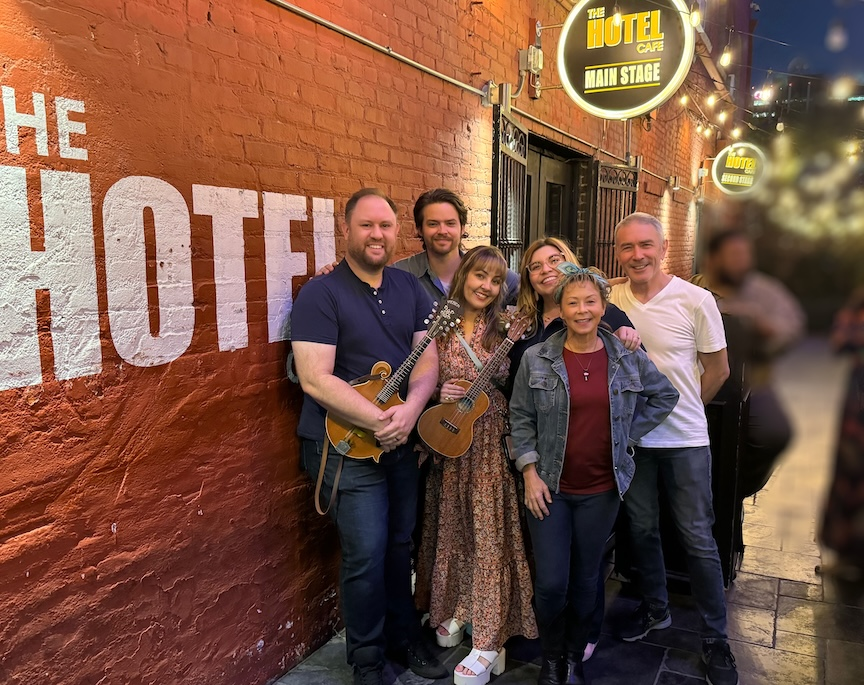
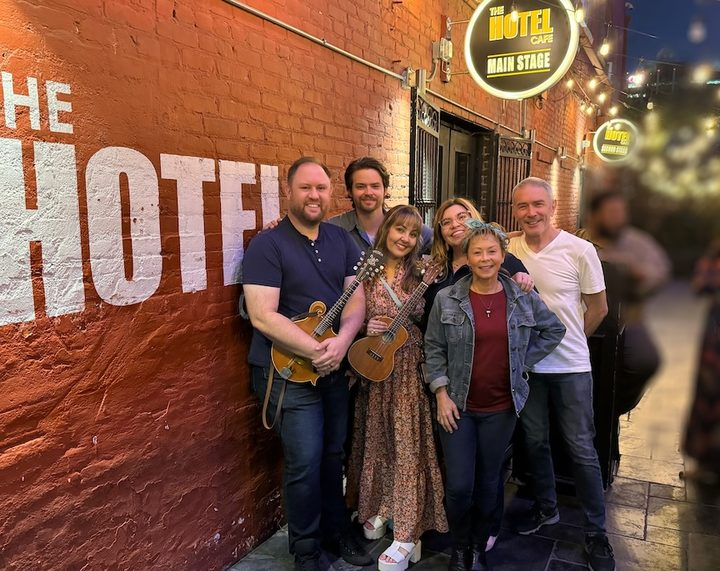
Fix Jake caption and shrink large images
- Characters: the Taz-Mania Jake clip was captioned "TAIME / Guild Wars
  II" (copied from another card); it now reads JAKE / "Taz-Mania" (TV).
- Resize 16 images to about twice their largest displayed width and
  recompress. Opaque PNGs (no transparency) become JPEGs. images/ goes
  from 15 MB to 2.5 MB; pages updated to the new names and sizes.

Claude-Session: https://claude.ai/code/session_01AyYw8QGHAJn7GwtTYjvwg3

diff --git a/voiceover-help/index.html b/voiceover-help/index.html
@@ -57,7 +57,7 @@
 
     <section class="feature book">
       <div class="media">
-        <a href="https://www.amazon.com/Voice-Over-101-Succeed-Voice-Second/dp/B09C3JTRR3" target="_blank" rel="noopener"><img src="/images/voiceover-help/voice-over-101.png" alt="Voice-Over 101 book cover" width="1600" height="2560" class="w-80"></a>
+        <a href="https://www.amazon.com/Voice-Over-101-Succeed-Voice-Second/dp/B09C3JTRR3" target="_blank" rel="noopener"><img src="/images/voiceover-help/voice-over-101.jpg" alt="Voice-Over 101 book cover" width="940" height="1504" class="w-80"></a>
       </div>
       <div>
         <h2 class="book-title">Voice-Over 101</h2>
@@ -84,39 +84,39 @@
     <section class="grid cols-3 products">
       <div class="item">
         <p>Rode Complete Studio Kit with NT1 microphone and AI-1 Audio Interface</p>
-        <div><a href="https://www.sweetwater.com/store/detail/NT1AiBun--rode-complete-studio-kit-with-nt1-microphone-and-ai-1-audio-interface?irclickid=0xdUHnyPoxyKWkh066xZhy2jUkCyL23Brz2Hwo0&amp;irgwc=1&amp;utm_source=Impact&amp;utm_medium=Very%20Derryberry%2C%20Inc&amp;utm_campaign=Online%20Tracking%20Link" target="_blank" rel="noopener"><img src="/images/voiceover-help/rode-studio-kit.png" alt="Rode Complete Studio Kit" width="866" height="1036" class="w-80"></a></div>
+        <div><a href="https://www.sweetwater.com/store/detail/NT1AiBun--rode-complete-studio-kit-with-nt1-microphone-and-ai-1-audio-interface?irclickid=0xdUHnyPoxyKWkh066xZhy2jUkCyL23Brz2Hwo0&amp;irgwc=1&amp;utm_source=Impact&amp;utm_medium=Very%20Derryberry%2C%20Inc&amp;utm_campaign=Online%20Tracking%20Link" target="_blank" rel="noopener"><img src="/images/voiceover-help/rode-studio-kit.jpg" alt="Rode Complete Studio Kit" width="720" height="861" class="w-80"></a></div>
       </div>
       <div class="item">
         <p>Rode AI-1 USB Audio Interface</p>
-        <div><a href="https://www.sweetwater.com/store/detail/AI-1--rode-ai-1-audio-interface?irclickid=0xdUHnyPoxyKWkh066xZhy2jUkCyLw09rz2Hwo0&amp;irgwc=1&amp;utm_source=Impact&amp;utm_medium=Very%20Derryberry%2C%20Inc&amp;utm_campaign=Online%20Tracking%20Link" target="_blank" rel="noopener"><img src="/images/voiceover-help/rode-ai-1.png" alt="Rode AI-1 USB Audio Interface" width="1580" height="554"></a></div>
+        <div><a href="https://www.sweetwater.com/store/detail/AI-1--rode-ai-1-audio-interface?irclickid=0xdUHnyPoxyKWkh066xZhy2jUkCyLw09rz2Hwo0&amp;irgwc=1&amp;utm_source=Impact&amp;utm_medium=Very%20Derryberry%2C%20Inc&amp;utm_campaign=Online%20Tracking%20Link" target="_blank" rel="noopener"><img src="/images/voiceover-help/rode-ai-1.jpg" alt="Rode AI-1 USB Audio Interface" width="720" height="252"></a></div>
       </div>
       <div class="item">
         <p>Aspen Pittman Designs PFM+ Magnetic pop filter</p>
-        <div><a href="https://www.sweetwater.com/store/detail/PFMplus--aspen-pittman-designs-pfm-magnetic-pop-filter-plus-gooseneck-and-stand-clamp?irclickid=0xdUHnyPoxyKWkh066xZhy2jUkCyLQUxrz2Hwo0&amp;irgwc=1&amp;utm_source=Impact&amp;utm_medium=Very%20Derryberry%2C%20Inc&amp;utm_campaign=Online%20Tracking%20Link" target="_blank" rel="noopener"><img src="/images/voiceover-help/pop-filter.png" alt="Aspen Pittman Designs PFM+ pop filter" width="616" height="1014" class="w-40"></a></div>
+        <div><a href="https://www.sweetwater.com/store/detail/PFMplus--aspen-pittman-designs-pfm-magnetic-pop-filter-plus-gooseneck-and-stand-clamp?irclickid=0xdUHnyPoxyKWkh066xZhy2jUkCyLQUxrz2Hwo0&amp;irgwc=1&amp;utm_source=Impact&amp;utm_medium=Very%20Derryberry%2C%20Inc&amp;utm_campaign=Online%20Tracking%20Link" target="_blank" rel="noopener"><img src="/images/voiceover-help/pop-filter.jpg" alt="Aspen Pittman Designs PFM+ pop filter" width="360" height="593" class="w-40"></a></div>
       </div>
       <div class="item">
         <p>Mojave Audio MA-301fet<br>large diaphragm condenser microphone</p>
-        <div><a href="https://www.sweetwater.com/store/detail/MA301FETVG--mojave-audio-ma-301fet-large-diaphragm-condenser-microphone-vintage-gray" target="_blank" rel="noopener"><img src="/images/voiceover-help/mojave-ma-301fet.png" alt="Mojave Audio MA-301fet microphone" width="278" height="864" class="w-40"></a></div>
+        <div><a href="https://www.sweetwater.com/store/detail/MA301FETVG--mojave-audio-ma-301fet-large-diaphragm-condenser-microphone-vintage-gray" target="_blank" rel="noopener"><img src="/images/voiceover-help/mojave-ma-301fet.jpg" alt="Mojave Audio MA-301fet microphone" width="278" height="864" class="w-40"></a></div>
       </div>
       <div class="item">
         <p>Mojave Audio MA-50<br>large diaphragm condenser microphone</p>
-        <div><a href="https://www.sweetwater.com/store/detail/MA50Blk--mojave-audio-ma-50-large-diaphragm-condenser-microphone-black?irclickid=0xdUHnyPoxyKWkh066xZhy2jUkCyL33Jrz2Hwo0&amp;irgwc=1&amp;utm_source=Impact&amp;utm_medium=Very%20Derryberry%2C%20Inc&amp;utm_campaign=Online%20Tracking%20Link" target="_blank" rel="noopener"><img src="/images/voiceover-help/mojave-ma-50.png" alt="Mojave Audio MA-50 microphone" width="1658" height="1042" class="w-80"></a></div>
+        <div><a href="https://www.sweetwater.com/store/detail/MA50Blk--mojave-audio-ma-50-large-diaphragm-condenser-microphone-black?irclickid=0xdUHnyPoxyKWkh066xZhy2jUkCyL33Jrz2Hwo0&amp;irgwc=1&amp;utm_source=Impact&amp;utm_medium=Very%20Derryberry%2C%20Inc&amp;utm_campaign=Online%20Tracking%20Link" target="_blank" rel="noopener"><img src="/images/voiceover-help/mojave-ma-50.jpg" alt="Mojave Audio MA-50 microphone" width="720" height="452" class="w-80"></a></div>
       </div>
       <div class="item">
         <p>Sennheiser HD 280 Pro<br>Closed-back studio and live monitoring headphones</p>
-        <div><a href="https://www.sweetwater.com/store/detail/HD280Pro--sennheiser-hd-280-pro-closed-back-studio-and-live-monitoring-headphones?irclickid=0xdUHnyPoxyKWkh066xZhy2jUkCyLyUxrz2Hwo0&amp;irgwc=1&amp;utm_source=Impact&amp;utm_medium=Very%20Derryberry%2C%20Inc&amp;utm_campaign=Online%20Tracking%20Link" target="_blank" rel="noopener"><img src="/images/voiceover-help/sennheiser-hd-280.png" alt="Sennheiser HD 280 Pro headphones" width="874" height="1018" class="w-70"></a></div>
+        <div><a href="https://www.sweetwater.com/store/detail/HD280Pro--sennheiser-hd-280-pro-closed-back-studio-and-live-monitoring-headphones?irclickid=0xdUHnyPoxyKWkh066xZhy2jUkCyLyUxrz2Hwo0&amp;irgwc=1&amp;utm_source=Impact&amp;utm_medium=Very%20Derryberry%2C%20Inc&amp;utm_campaign=Online%20Tracking%20Link" target="_blank" rel="noopener"><img src="/images/voiceover-help/sennheiser-hd-280.jpg" alt="Sennheiser HD 280 Pro headphones" width="630" height="734" class="w-70"></a></div>
       </div>
       <div class="item">
         <p>Tribooth portable VO studio</p>
-        <div><a href="https://tribooth.com/products/the-tri-booth?variant=34610675581081" target="_blank" rel="noopener"><img src="/images/voiceover-help/tribooth.png" alt="Tribooth portable VO studio" width="776" height="1372" class="w-60"></a></div>
+        <div><a href="https://tribooth.com/products/the-tri-booth?variant=34610675581081" target="_blank" rel="noopener"><img src="/images/voiceover-help/tribooth.jpg" alt="Tribooth portable VO studio" width="540" height="955" class="w-60"></a></div>
       </div>
       <div class="item">
         <p>Universal Audio Apollo Twin X DUO<br>Thunderbolt Audio Interface</p>
-        <div><a href="https://www.sweetwater.com/store/detail/ApolloTXDHE--universal-audio-apollo-twin-by-duo-heritage-edition-10x6-thunderbolt-audio-interface-with-uad-dsp?irclickid=0xdUHnyPoxyKWkh066xZhy2jUkCyLRVhrz2Hwo0&amp;irgwc=1&amp;utm_source=Impact&amp;utm_medium=Very%20Derryberry%2C%20Inc&amp;utm_campaign=Online%20Tracking%20Link" target="_blank" rel="noopener"><img src="/images/voiceover-help/apollo-twin-x.png" alt="Universal Audio Apollo Twin X DUO" width="1378" height="1026" class="w-60"></a></div>
+        <div><a href="https://www.sweetwater.com/store/detail/ApolloTXDHE--universal-audio-apollo-twin-by-duo-heritage-edition-10x6-thunderbolt-audio-interface-with-uad-dsp?irclickid=0xdUHnyPoxyKWkh066xZhy2jUkCyLRVhrz2Hwo0&amp;irgwc=1&amp;utm_source=Impact&amp;utm_medium=Very%20Derryberry%2C%20Inc&amp;utm_campaign=Online%20Tracking%20Link" target="_blank" rel="noopener"><img src="/images/voiceover-help/apollo-twin-x.jpg" alt="Universal Audio Apollo Twin X DUO" width="540" height="402" class="w-60"></a></div>
       </div>
       <div class="item">
         <p>Centrance MicPort Pro<br>great little audio interface - battery or USB-C power, limiter, phantom power</p>
-        <div><a href="https://centrance.com/micportpro/" target="_blank" rel="noopener"><img src="/images/voiceover-help/micport-pro.png" alt="Centrance MicPort Pro" width="512" height="678" class="w-60"></a></div>
+        <div><a href="https://centrance.com/micportpro/" target="_blank" rel="noopener"><img src="/images/voiceover-help/micport-pro.jpg" alt="Centrance MicPort Pro" width="512" height="678" class="w-60"></a></div>
       </div>
     </section>
 

diff --git a/kids-music/index.html b/kids-music/index.html
@@ -44,7 +44,7 @@
 
     <section class="feature">
       <div class="media">
-        <a href="https://www.youtube.com/playlist?list=PL--vHWNY-DoqX0TfI2BEwqUzUn1QsPUGS" target="_blank" rel="noopener"><img src="/images/kids-music/go-to-sleep.png" alt="Go To Sleep album cover" width="1496" height="1485"></a>
+        <a href="https://www.youtube.com/playlist?list=PL--vHWNY-DoqX0TfI2BEwqUzUn1QsPUGS" target="_blank" rel="noopener"><img src="/images/kids-music/go-to-sleep.jpg" alt="Go To Sleep album cover" width="1170" height="1161"></a>
       </div>
       <div>
         <h2 class="heading">Go To Sleep</h2>
@@ -78,7 +78,7 @@
 
     <section class="feature">
       <div class="media">
-        <a href="https://www.youtube.com/playlist?list=PL--vHWNY-Dor1vnWiqjgBFOHLoMiRAsVs" target="_blank" rel="noopener"><img src="/images/kids-music/gotta-go-green.jpg" alt="Gotta Go Green album cover" width="1920" height="1920" class="w-56"></a>
+        <a href="https://www.youtube.com/playlist?list=PL--vHWNY-Dor1vnWiqjgBFOHLoMiRAsVs" target="_blank" rel="noopener"><img src="/images/kids-music/gotta-go-green.jpg" alt="Gotta Go Green album cover" width="660" height="660" class="w-56"></a>
       </div>
       <div>
         <h2 class="heading">Gotta Go Green</h2>
@@ -96,7 +96,7 @@
           <p>Baby Banana and the Licorice Tree CD</p>
         </div>
         <div class="album">
-          <a href="https://www.amazon.com/Baby-Banana-Licorice-Tree-Derryberry/dp/B09ZJ3GJC9/ref=monarch_sidesheet_title" target="_blank" rel="noopener"><img src="/images/kids-music/baby-banana-book.jpg" alt="Baby Banana and the Licorice Tree book cover" width="1848" height="2775"></a>
+          <a href="https://www.amazon.com/Baby-Banana-Licorice-Tree-Derryberry/dp/B09ZJ3GJC9/ref=monarch_sidesheet_title" target="_blank" rel="noopener"><img src="/images/kids-music/baby-banana-book.jpg" alt="Baby Banana and the Licorice Tree book cover" width="400" height="601"></a>
           <p><a href="https://www.amazon.com/Baby-Banana-Licorice-Tree-Derryberry/dp/B09ZJ3GJC9/ref=monarch_sidesheet_title" target="_blank" rel="noopener">See the colorful book</a> that goes with this music album</p>
         </div>
       </div>

diff --git a/music/index.html b/music/index.html
@@ -43,9 +43,9 @@
     <h1 class="title">Music</h1>
 
     <div class="grid cols-3 photos">
-      <img src="/images/music/honey-pig.jpg" alt="Honey Pig" width="864" height="576">
-      <img src="/images/music/hotel-cafe.jpg" alt="Honey Pig at Hotel Cafe" width="864" height="685">
-      <img src="/images/music/epk.jpg" alt="Honey Pig" width="952" height="468">
+      <img src="/images/music/honey-pig.jpg" alt="Honey Pig" width="720" height="480">
+      <img src="/images/music/hotel-cafe.jpg" alt="Honey Pig at Hotel Cafe" width="720" height="571">
+      <img src="/images/music/epk.jpg" alt="Honey Pig" width="720" height="354">
     </div>
 
     <p class="center streaming-intro">You can hear Honey Pig music on these and all other streaming services</p>

diff --git a/characters/index.html b/characters/index.html
@@ -143,7 +143,7 @@
       </div>
       <div class="card">
         <img src="/images/characters/jake.png" alt="Jake">
-        <h3>TAIME</h3><span class="show">"Guild Wars II" (video game)</span>
+        <h3>JAKE</h3><span class="show">"Taz-Mania" (TV)</span>
         <div class="player"><audio src="/audio/jake.mp3" controls preload="none"></audio><a class="download" href="/audio/jake.mp3" download aria-label="Download Jake clip"><svg viewBox="0 0 512 512"><use href="/images/icons.svg#download"/></svg></a></div>
       </div>
       <div class="card">
